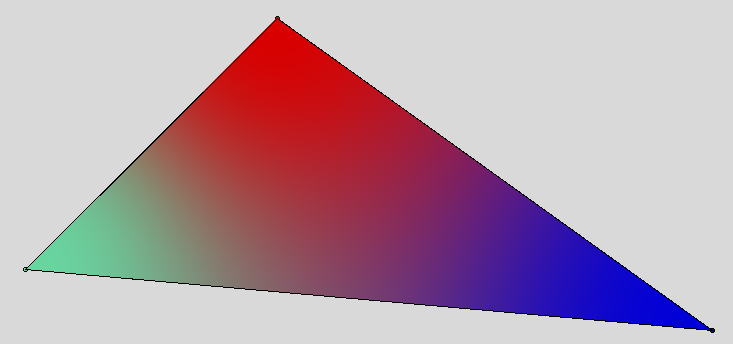
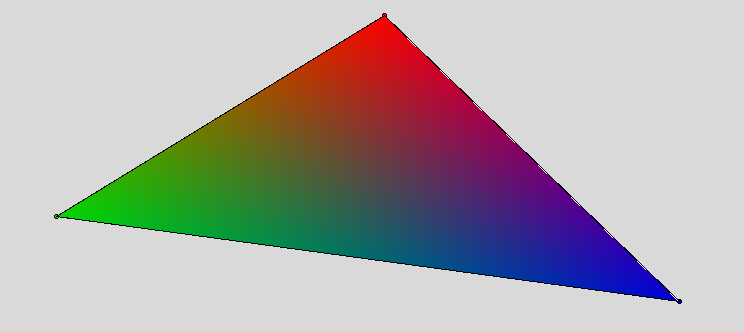
Add files via upload

diff --git a/fill_poly.py b/fill_poly.py
@@ -1,112 +1,117 @@
 import tkinter as tk
+import time
 
 def fill_poly(vertices, canvas):
     
-    def interpolate_color(color1, color2, color3, t1, t2, t3):
-        # Interpola as componentes RGB
-        r = int(t1 * color1[0] + t2 * color2[0] + t3 * color3[0])
-        g = int(t1 * color1[1] + t2 * color2[1] + t3 * color3[1])
-        b = int(t1 * color1[2] + t2 * color2[2] + t3 * color3[2])
-
-        # Garante que os valores RGB estejam no intervalo correto (0-255)
-        r = max(0, min(r, 255))
-        g = max(0, min(g, 255))
-        b = max(0, min(b, 255))
-
-        # Retorna a cor como uma tupla (r, g, b)
-        return r, g, b
-
-
-    def rgb_to_hex(rgb):
-        # Converte a cor RGB para o formato #RRGGBB
-        return f'#{rgb[0]:02X}{rgb[1]:02X}{rgb[2]:02X}'
+    # Calcula o tempo de execução
+    start_time = time.time()
     
-    # Esta função preenche um polígono triangular com uma cor no canvas fornecido.
-    # Ela recebe uma lista de vértices do polígono e o canvas onde o polígono será desenhado.
-
-    # Verifica se os 3 vértices estão na lista, se não, exibe uma mensagem de erro e interrompe o preenchimento.
+    # Verifica se os 3 vértices estão na lista, se não, exibe uma mensagem de 
+    # erro e interrompe o preenchimento.
     if len(vertices) != 3:
         tk.messagebox.showerror("Erro", "Deve-se colorir todos os vértices do triângulo para executar o preenchimento")
         return
+    
+    # Passa uma camada branca no trinângulo
+    canvas.create_polygon(*vertices[0][0], *vertices[1][0], *vertices[2][0], fill='white', outline='white')
+    
+    # Cham ao método rasterize_triangle para preencher o triângulo
+    rasterize_triangle(vertices[0][0], vertices[1][0], vertices[2][0], vertices[0][1], vertices[1][1], vertices[2][1], canvas)
 
-    # Encontra a coordenada y mínima e máxima dos vértices do triângulo.
-    min_y = min(vertices, key=lambda p: p[0][1])[0][1]
-    max_y = max(vertices, key=lambda p: p[0][1])[0][1]
+    # Atualiza a tela
+    canvas.update()
+    
+    # Calcula o tempo de execução
+    print("Tempo de execução (FillPoly):", time.time() - start_time)
 
-    # ! Neste trecho de código, esta sendo percorrido cada linha vertical de um triângulo 
-    # ! e verificando as interseções entre essa linha e as arestas do triângulo.
-    for y in range(min_y, max_y + 1):
-        
-        # Lista de interseções entre a linha vertical e as arestas do triângulo.
-        intersections = []
 
-        # ? Percorre cada uma das três arestas do triângulo. Dentro desse loop, obtemos as 
-        # ? coordenadas x e y dos pontos inicial e final da aresta.
-        for i in range(3):
-            x1, y1 = vertices[i][0]
-            x2, y2 = vertices[(i + 1) % 3][0]
+def rasterize_triangle(v1, v2, v3, c1, c2, c3, canvas):
+    
+    # Verifica se o triângulo é degenerado
+    if v1[1] == v2[1] == v3[1] or v1[0] == v2[0] == v3[0]:
+        print("Triângulo degenerado")
+        return
+    
+    # Ordena os vértices por coordenada y, o menor y primeiro, o maior y por último
+    # usando a função sorted com a chave lambda
+    vertices = sorted([(v1, c1), (v2, c2), (v3, c3)], key=lambda v: v[0][1])
+    
+    # Separa os vértices e as cores respectivamente
+    v1, c1 = vertices[0]
+    v2, c2 = vertices[1]
+    v3, c3 = vertices[2]
+    
+    # Calcula as taxas de variação das cores
+    dc12 = [((1 / (v2[1] - v1[1])) * (c2[i] - c1[i])) for i in range(3)]
+    dc13 = [((1 / (v3[1] - v1[1])) * (c3[i] - c1[i])) for i in range(3)]
+    dc23 = [((1 / (v3[1] - v2[1])) * (c3[i] - c2[i])) for i in range(3)]
+    
+    # Inicializa as cores nos vértices
+    c12_r, c12_g, c12_b = c1
+    c13_r, c13_g, c13_b = c1
+    c23_r, c23_g, c23_b = c2
 
-            # ! Verifica-se se a linha vertical cruza a aresta do triângulo. Para fazer isso, compara-se
-            # ! as coordenadas y dos pontos inicial e final da aresta com a coordenada y da linha vertical
-            # * Adiciona-se uma pequena tolerância de 1e-6 para lidar com possíveis erros de arredondamento
-            # * evitando erros de ser igual a 0 e não ser considerado como interseção.
-            if y1 <= y + 1e-6 <= y2 or y2 <= y + 1e-6 <= y1:
-                if y2 - y1 != 0:
-                    
-                    # Calcula a coordenada x da interseção usando interpolação linear.
-                    x = int(x1 + (y + 1e-6 - y1) * (x2 - x1) / (y2 - y1))
-                    intersections.append(x)
+    # Passa uma camada branca no trinângulo
+    canvas.create_polygon(*vertices[0][0], *vertices[1][0], *vertices[2][0], fill='white', outline='white')
+    
+    # Rasteriza o triângulo linha por linha
+    for y in range(v1[1], v3[1] + 1):
 
-        # Ordena as interseções em ordem crescente.
-        intersections.sort()
-        
-        # ? O resultado final será uma lista de coordenadas x das interseções entre a linha vertical e as 
-        # ? arestas do triângulo, ordenadas em ordem crescente.
-
-        # ! Preenche a linha horizontal entre cada par de interseções
-        # ! A cada iteração, pega-se dois valores de interseção consecutivos, x1 e x2. 
-        # ! Se não houver um próximo valor de interseção, pega-se o primeiro valor novamente.
-        for i in range(0, len(intersections), 2):
+        # Rasteriza a parte superior do triângulo, até a sua metade, no caso
+        # até o vertice 2
+        if y < v2[1]:
+    
+            draw_scanline(v1, v2, [c12_r, c12_g, c12_b], v1, v3, [c13_r, c13_g, c13_b], y, canvas)
+            c12_r += dc12[0]    # Incrementa a cor vermelha (1->2)
+            c12_g += dc12[1]    # Incrementa a cor verde    (1->2)
+            c12_b += dc12[2]    # Incrementa a cor azul     (1->2)
             
-            x1 = intersections[i]
-            x2 = intersections[i + 1] if i + 1 < len(intersections) else intersections[0]
+        # Rasteriza a parte inferior do triângulo, a partir da metade, no caso
+        # abaixo do vertice 2
+        else:
 
-            # ! Itera sobre os valores de x na faixa de x1 a x2. Isso significa que estamos percorrendo 
-            # ! cada pixel na linha horizontal entre as interseções.
-            for x in range(x1, x2 + 1):
-                
-                # ! Calcula os pesos de interpolação para cada vértice do triângulo.
-                
-                # * A variável d é inicializada como uma lista vazia. Ela será usada para armazenar 
-                # * as distâncias entre cada vértice do triângulo e um ponto de referência (x, y).
-                
-                # * É feito um loop através dos vértices do triângulo. Cada vértice é uma tupla ((vx, vy), _), 
-                # * onde (vx, vy) representa as coordenadas do vértice e _ é um valor não utilizado.
-                
-                # ? É calculada a distância entre o vértice atual e o ponto de referência (x, y) usando a fórmula da distância euclidiana: 
-                # ? ((vx - x) ** 2 + (vy - y) ** 2) ** 0.5. Essa fórmula calcula a distância entre dois pontos em um plano cartesiano.
-                d = [((vx - x) ** 2 + (vy - y) ** 2) ** 0.5 for ((vx, vy), _) in vertices]
-                
-                # ? Total é inicializada como a soma dos inversos dos quadrados de cada distância em d. 
-                # * O valor 1e-6 é adicionado ao denominador para evitar divisão por zero
-                total = sum(1 / ((di + 1e-6) ** 2) for di in d)
-                
-                # ? É feito outro loop através das distâncias em d. Para cada distância di, é calculado o peso de interpolação correspondente 
-                # ? usando a fórmula 1 / ((di + 1e-6) ** 2). O valor 1e-6 é adicionado ao denominador novamente para evitar divisão por zero.
-                # * Aqui é garantido que as cores dos vértices sejam interpoladas de acordo com a distância entre o vértice e o ponto de referência (x, y)
-                # * fazendo o efeito de gradiente necessário para o preenchimento, isso garante tambem que o inicio perto dos vertices seja mais forte por causa
-                # * do peso de interpolação ser maior e conforme vai se afastando o peso vai diminuindo e a cor vai ficando mais fraca
-                t = [(1 / ((di + 1e-6) ** 2)) / total for di in d]
+            draw_scanline(v2, v3, [c23_r, c23_g, c23_b], v1, v3, [c13_r, c13_g, c13_b], y, canvas)
+            c23_r += dc23[0]    # Incrementa a cor vermelha (2->3)
+            c23_g += dc23[1]    # Incrementa a cor verde    (2->3)
+            c23_b += dc23[2]    # Incrementa a cor azul     (2->3)
+            
+        c13_r += dc13[0]        # Incrementa a cor vermelha (1->3)
+        c13_g += dc13[1]        # Incrementa a cor verde    (1->3)
+        c13_b += dc13[2]        # Incrementa a cor azul     (1->3)
+        
+    return
 
-                # ! Essa função recebe três cores (representadas como tuplas RGB), juntamente com três pesos de interpolação (t1, t2, t3).
-                # ! Ela realiza a interpolação das componentes RGB das cores de acordo com os pesos fornecidos
-                
-                # ? Para cada componente (vermelho, verde e azul), a função calcula o valor interpolado multiplicando cada componente da cor pelo peso correspondente 
-                # ? e somando os resultados. (r = int(t1 * color1[0] + t2 * color2[0] + t3 * color3[0]))
-                color = interpolate_color(vertices[0][1], vertices[1][1], vertices[2][1], t[0], t[1], t[2])
+def draw_scanline(v1, v2, c1, v3, v4, c2, y, canvas):
+    
+    # Calcula as coordenadas x nas duas arestas do triângulo
+    x1 = v1[0] + (v2[0] - v1[0]) * (y - v1[1]) / (v2[1] - v1[1]) if v2[1] != v1[1] else v1[0]
+    x2 = v3[0] + (v4[0] - v3[0]) * (y - v3[1]) / (v4[1] - v3[1]) if v4[1] != v3[1] else v3[0]
 
-                # Converte a cor RGB para o formato hexadecimal apenas para exibição no canvas
-                color_hex = rgb_to_hex(color)
+    # Garante que x1 é a coordenada x mais à esquerda e x2 é a coordenada x mais à direita
+    # sem isso, a linha não é desenhada corretamente ou até mesmo não é desenhada
+    if x1 > x2:
+        x1, x2 = x2, x1     # Troca os valores de x1 e x2
+        c1, c2 = c2, c1     # Troca as cores de c1 e c2
 
-                # Desenha o pixel na tela usando a cor calculada.
-                canvas.create_line(x, y, x + 1, y, fill=color_hex)
+    # Calcula a taxa de variação da cor
+    dc_r = (c2[0] - c1[0]) / (x2 - x1) if x2 != x1 else 0   # Taxa de variação da cor vermelha
+    dc_g = (c2[1] - c1[1]) / (x2 - x1) if x2 != x1 else 0   # Taxa de variação da cor verde
+    dc_b = (c2[2] - c1[2]) / (x2 - x1) if x2 != x1 else 0   # Taxa de variação da cor azul
+    
+    # Inicializa a cor no pixel mais à esquerda
+    c_r, c_g, c_b = c1
+
+    # Desenha a linha de varredura pixel por pixel
+    # percorrendo a linha de varredura de x1 até x2
+    for x in range(int(x1), int(x2)):       
+        set_pixel_color(x, y, [c_r, c_g, c_b], canvas)  # Define a cor do pixel
+        c_r += dc_r    # Incrementa a cor vermelha
+        c_g += dc_g    # Incrementa a cor verde
+        c_b += dc_b    # Incrementa a cor azul
+
+def set_pixel_color(x, y, color, canvas):
+    # Converte a lista de cor para uma string no formato '#RRGGBB'
+    color = '#%02x%02x%02x' % (int(color[0]), int(color[1]), int(color[2]))
+
+    # Desenha um pixel na posição (x, y) com a cor especificada
+    canvas.create_line(x, y, x+1, y, fill=color)
